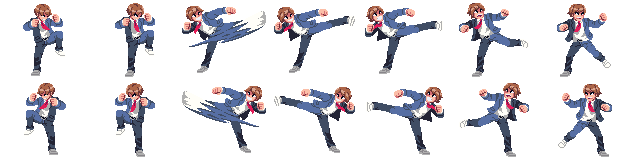
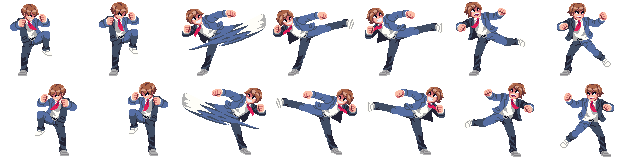
PlayerState를 상속받는 WeakAttack class 제작, Wall_jump 애니메이션 재생 개선
weakAttack에 각 콤보에 해당하는 애니메이션을 입력하고 idleState에서 'Z'를 입력하면 상태 변화가 일어나고 애니메이션이 재생되도록 했습니다.
이제 벽점프를 하고 짚었던 벽의 반대편으로 안면이 향하도록 애니메이션이 재생됩니다

diff --git a/RiverCityGirls/WeakAttack.cpp b/RiverCityGirls/WeakAttack.cpp
@@ -1,0 +1,112 @@
+#include "stdafx.h"
+#include "WeakAttack.h"
+
+void WeakAttack::enter(Player & player)
+{
+	_img = IMAGE_MANAGER->findImage("Kyoko_chop");
+	_ani = new Animation;
+	_ani->init(_img->getWidth(), _img->getHeight(), _img->getMaxFrameX(), _img->getMaxFrameY());
+	if (player.getDirection() == DIRECTION::RIGHT)
+	{
+		_ani->setPlayFrame(0, 6, false, false);
+	}
+	else 
+	{
+		_ani->setPlayFrame(6, 12, false, false);
+	}
+
+	_ani->setFPS(10);
+	_ani->start();
+
+
+}
+
+PlayerState * WeakAttack::update(Player & player)
+{
+
+	_ani->frameUpdate(TIME_MANAGER->getElapsedTime());
+
+	if (!_ani->isPlay())
+	{
+		return new IdleState;
+	}
+	else
+	{
+		switch (_combo)
+		{
+		case WeakAttack::ATTACK_COMBO::QC1:
+		{
+			if (KEY_MANAGER->isOnceKeyDown('Z'))
+			{
+				_img = IMAGE_MANAGER->findImage("Kyoko_qc2");
+
+				_ani->init(_img->getWidth(), _img->getHeight(), _img->getMaxFrameX(), _img->getMaxFrameY());
+				if (player.getDirection() == DIRECTION::RIGHT)
+				{
+					_ani->setPlayFrame(0, 7, false, false);
+				}
+				else
+				{
+					_ani->setPlayFrame(7, 14, false, false);
+				}
+				_ani->setFPS(10);
+				_ani->start();
+				_combo = ATTACK_COMBO::QC2;
+			}
+		}
+
+		break;
+		case WeakAttack::ATTACK_COMBO::QC2:
+			if (!_ani->isPlay())
+			{
+				return new IdleState;
+			}
+			else
+			{
+				if (KEY_MANAGER->isOnceKeyDown('Z'))
+				{
+					_img = IMAGE_MANAGER->findImage("Kyoko_qc3");
+
+					_ani->init(_img->getWidth(), _img->getHeight(), _img->getMaxFrameX(), _img->getMaxFrameY());
+					if (player.getDirection() == DIRECTION::RIGHT)
+					{
+						_ani->setPlayFrame(0, 7, false, false);
+					}
+					else
+					{
+						_ani->setPlayFrame(7, 14, false, false);
+					}
+					_ani->setFPS(10);
+					_ani->start();
+					_combo = ATTACK_COMBO::QC3;
+				}
+				
+					
+
+			}
+				break;
+			case WeakAttack::ATTACK_COMBO::QC3:
+			    if (!_ani->isPlay())
+				{
+					return new IdleState;
+				}
+			break;
+				}
+
+			}
+			return nullptr;
+
+		
+	
+}
+void WeakAttack::render(Player & player)
+{
+	_img->setScale(3);
+	CAMERA_MANAGER->aniRenderZ(_img, player.getPosition(), player.getSize(), _ani, true);
+}
+
+void WeakAttack::exit(Player & paleyr)
+{
+	_ani->release();
+	SAFE_DELETE(_ani);
+}

diff --git a/RiverCityGirls/JumpState.cpp b/RiverCityGirls/JumpState.cpp
@@ -183,10 +183,12 @@ PlayerState * JumpState::update(Player & player)
 			if (player.getDirection() == DIRECTION::LEFT)
 			{
 				_jumpDirection = 0;
+				player.setDirection(DIRECTION::RIGHT);
 			}
 			else if (player.getDirection() == DIRECTION::RIGHT)
 			{
 				_jumpDirection = 1;
+				player.setDirection(DIRECTION::LEFT);
 			}
 			_ani->setFPS(15);
 			_ani->start();
@@ -218,7 +220,7 @@ PlayerState * JumpState::update(Player & player)
 
 	float currentPlayerX = player.getPosition().x;
 
-	if (currentPlayerX == lastPlayerX && KEY_MANAGER->isOnceKeyDown('X'))
+	if (currentPlayerX == lastPlayerX&& moveDir.x != 0 && KEY_MANAGER->isOnceKeyDown('X'))
 	{
 		if (_jumpType != JUMP_TYPE::WALL_JUMP)
 		{
@@ -233,13 +235,13 @@ PlayerState * JumpState::update(Player & player)
 			{
 				_ani->setPlayFrame(0, 2, false, false);
 			}
-			_ani->setFPS(1);
+			_ani->setFPS(10);
 			_ani->start();
 			
 		}
 	}
 
-	_ani->frameUpdate(TIME_MANAGER->getElapsedTime() * 10);
+	_ani->frameUpdate(TIME_MANAGER->getElapsedTime());
 
 	return nullptr;
 }

diff --git a/RiverCityGirls/Player.cpp b/RiverCityGirls/Player.cpp
@@ -35,6 +35,9 @@ void Player::release()
 {
 	_state->exit(*this);
 	delete _state;
+
+	//_attackState->exit(*this);
+	//delete _attackState;
 }
 
 void Player::update()
@@ -47,13 +50,22 @@ void Player::update()
 		_state = _newState;
 		_state->enter(*this);
 	}
+
+	/*AttackState* _newAttackState = _attackState->update(*this);
+	if (_newAttackState != nullptr)
+	{
+		_attackState->exit(*this);
+		delete _attackState;
+		_attackState = _newAttackState;
+		_attackState->enter(*this);
+	}*/
 }
 
 void Player::render()
 {
 	
 	_state->render(*this);
-
+	//_attackState->render(*this);
 	
 
 }

diff --git a/RiverCityGirls/playGround.cpp b/RiverCityGirls/playGround.cpp
@@ -30,6 +30,9 @@ HRESULT playGround::init()
 	IMAGE_MANAGER->addFrameImage("Kyoko_run", L"images/kyoko/Kyoko_run.png", 16, 2);
 	IMAGE_MANAGER->addFrameImage("Kyoko_jump", L"images/kyoko/Kyoko_jump.png", 3, 2);
 	IMAGE_MANAGER->addFrameImage("Kyoko_walljump", L"images/kyoko/Kyoko_walljump.png", 2, 2);
+	IMAGE_MANAGER->addFrameImage("Kyoko_chop", L"images/kyoko/Kyoko_qc1.png", 6, 2);
+	IMAGE_MANAGER->addFrameImage("Kyoko_qc2", L"images/kyoko/Kyoko_qc2.png", 7, 2);
+	IMAGE_MANAGER->addFrameImage("Kyoko_qc3", L"images/kyoko/Kyoko_qc3.png", 9, 2);
 
 	// * Enemy 
     // ** schoolBoy

diff --git a/RiverCityGirls/WeakAttack.h b/RiverCityGirls/WeakAttack.h
@@ -1,0 +1,25 @@
+#pragma once
+//#include "AttackState.h"
+#include "AllPlayerState.h"
+
+class WeakAttack : public PlayerState
+{
+private:
+	enum class ATTACK_COMBO
+	{
+		QC1,
+		QC2,
+		QC3
+	};
+
+	Synthesize(ATTACK_COMBO, _combo, Combo)
+	 
+
+public:
+	virtual void enter(Player&player);
+	//virtual AttackState* update(Player& player);
+	virtual PlayerState* update(Player& player);
+	virtual void render(Player& player);
+	virtual void exit(Player& paleyr);
+};
+

diff --git a/RiverCityGirls/AttackState.h b/RiverCityGirls/AttackState.h
@@ -3,11 +3,16 @@
 
 class AttackState
 {
+protected:
+	Image* _img;
+	Animation* _ani;
+	RECT _hitRc;
+
 public:
 	virtual void enter(Player&player);
 	virtual AttackState* update(Player& player);
 	virtual void render(Player& player);
-	virtual void exit(Player& paleyr);
+	virtual void exit(Player& player);
 
 };
 

diff --git a/RiverCityGirls/AttackState.cpp b/RiverCityGirls/AttackState.cpp
@@ -1,2 +1,21 @@
 #include "stdafx.h"
 #include "AttackState.h"
+
+void AttackState::enter(Player & player)
+{
+	
+
+}
+
+AttackState * AttackState::update(Player & player)
+{
+	return nullptr;
+}
+
+void AttackState::render(Player & player)
+{
+}
+
+void AttackState::exit(Player & paleyr)
+{
+}

diff --git a/RiverCityGirls/IdleState.cpp b/RiverCityGirls/IdleState.cpp
@@ -17,6 +17,11 @@ PlayerState * IdleState::update(Player & player)
 	//	_ani->setPlayFrame(12, 24, false, true); // 12 ~ 23
 	//}
 
+	if (KEY_MANAGER->isOnceKeyDown('Z'))
+	{
+		return new WeakAttack;
+	}
+
 	if (KEY_MANAGER->isOnceKeyDown('X'))
 	{
 		JumpState* jumpState = new JumpState;

diff --git a/RiverCityGirls/AllPlayerState.h b/RiverCityGirls/AllPlayerState.h
@@ -5,3 +5,4 @@
 #include "WalkState.h"
 #include "RunState.h"
 #include "JumpState.h"
+#include "WeakAttack.h"
